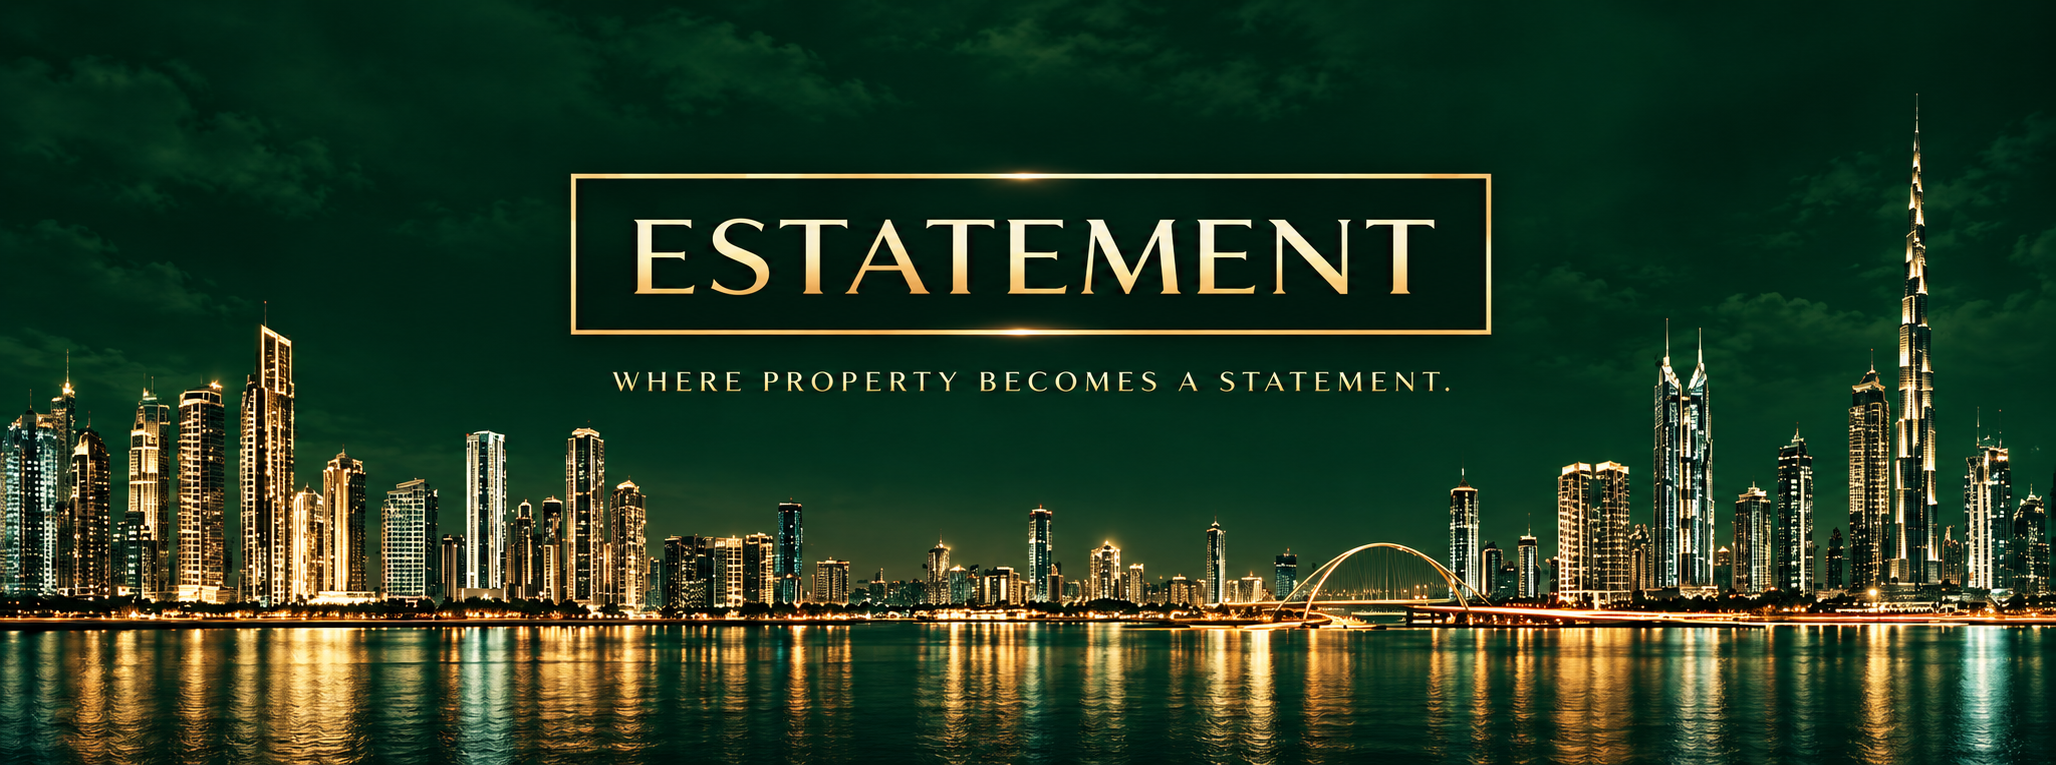
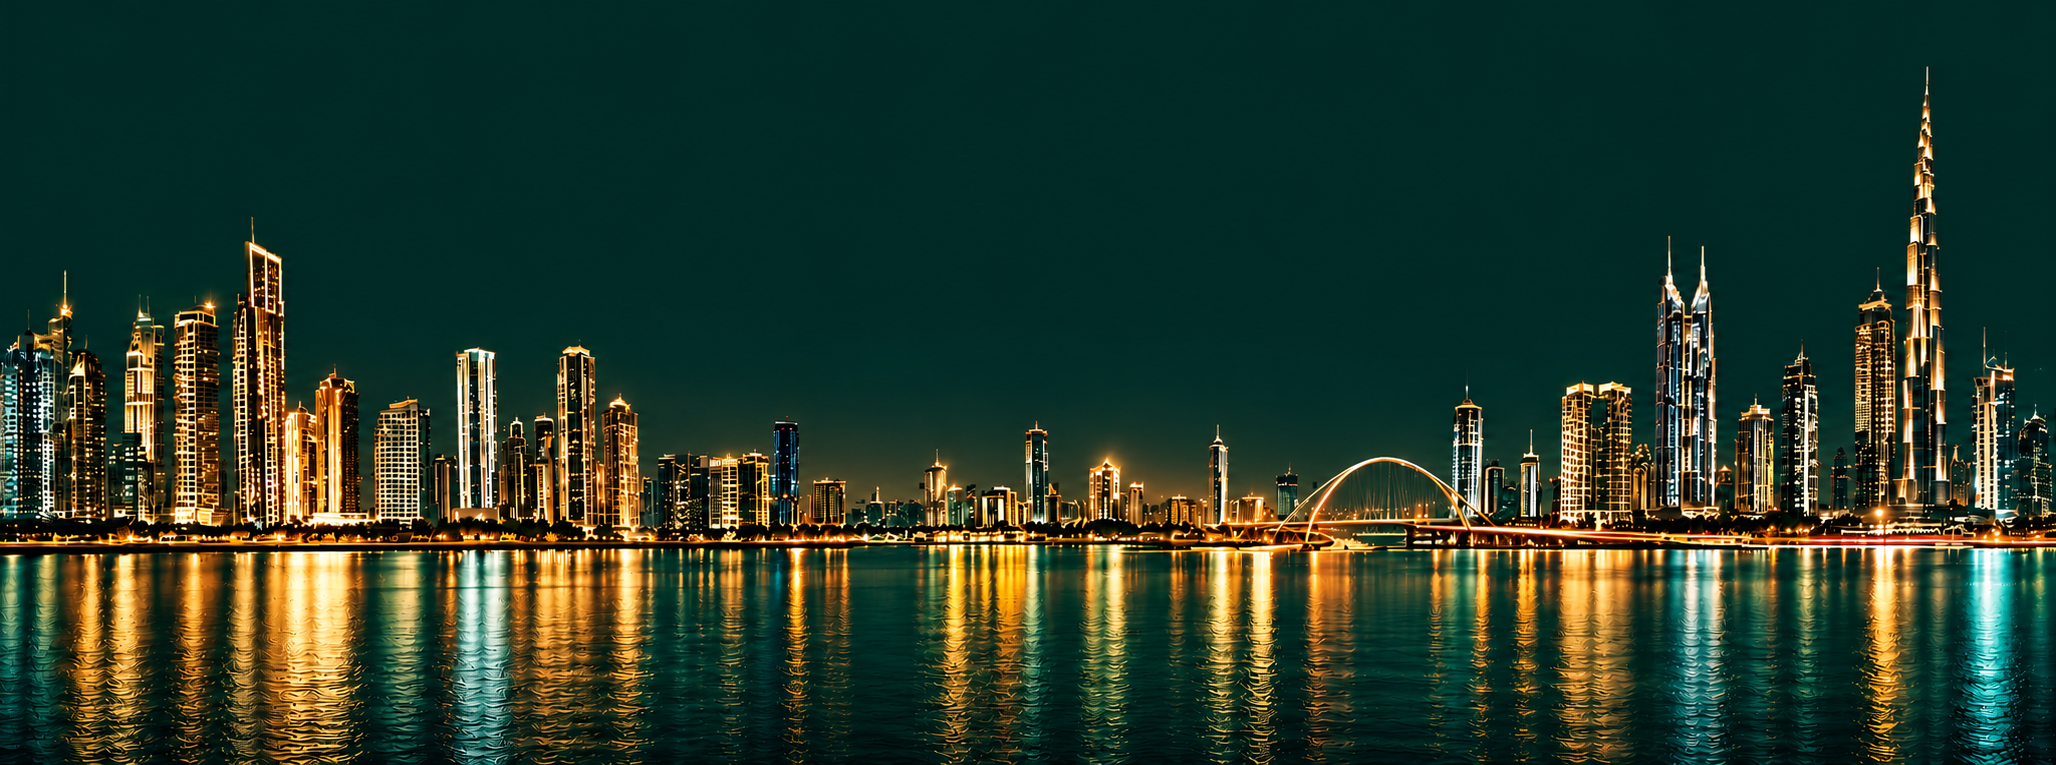
upda

diff --git a/src/styles.css b/src/styles.css
@@ -487,7 +487,7 @@
 .page-hero-subtitle {
   font-size: 0.98rem;
   color: rgba(255, 255, 255, 0.82);
-  line-height: 1.6;
+  line-height: 1.38;
   max-width: 580px;
 }
 
@@ -503,7 +503,7 @@
 }
 
 .mission-hero .page-hero-image {
-  object-position: center center;
+  object-position: 70% 10%;
 }
 
 .mission-hero .page-hero-content {
@@ -517,11 +517,12 @@
 .mission-hero .page-hero-subtitle {
   max-width: 1400px;
   display: grid;
-  gap: 4px;
+  gap: 2px;
 }
 
 .mission-hero .page-hero-subtitle p {
   margin: 0;
+  line-height: 1.28;
 }
 
 .mission-hero .page-hero-subtitle strong {
@@ -539,8 +540,8 @@
   }
 
   .mission-hero .page-hero-image {
-    object-fit: contain;
-    object-position: center center;
+    object-fit: cover;
+    object-position: center 12%;
     transform: none;
   }
 
